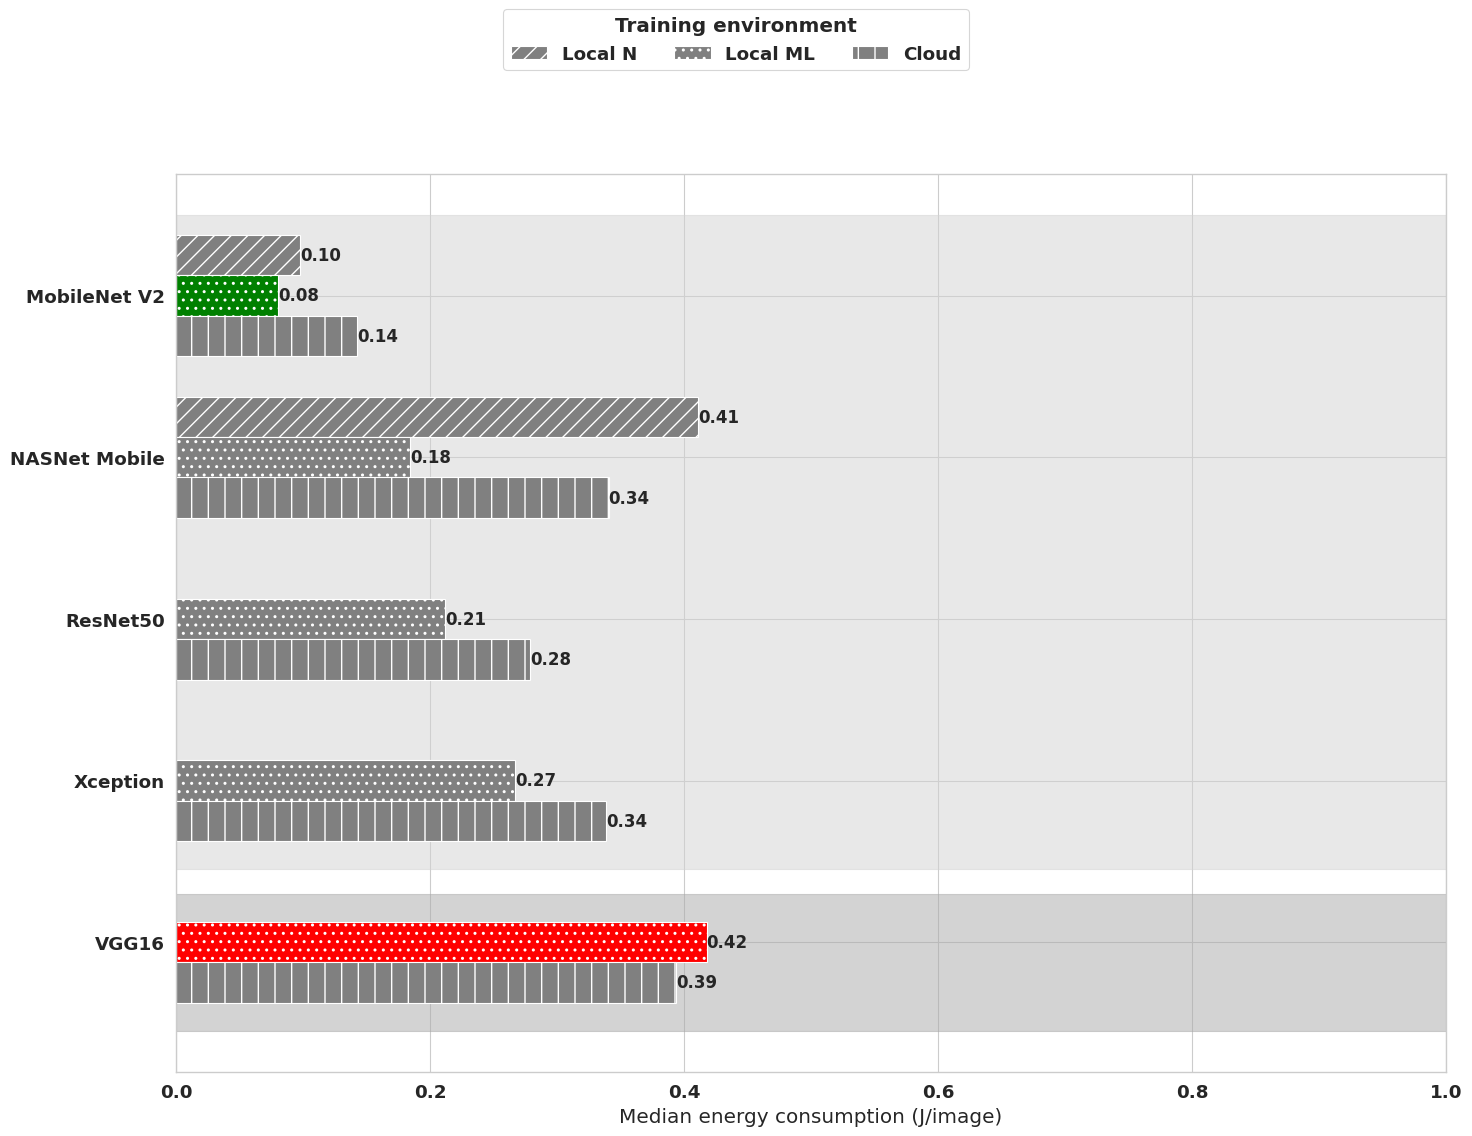
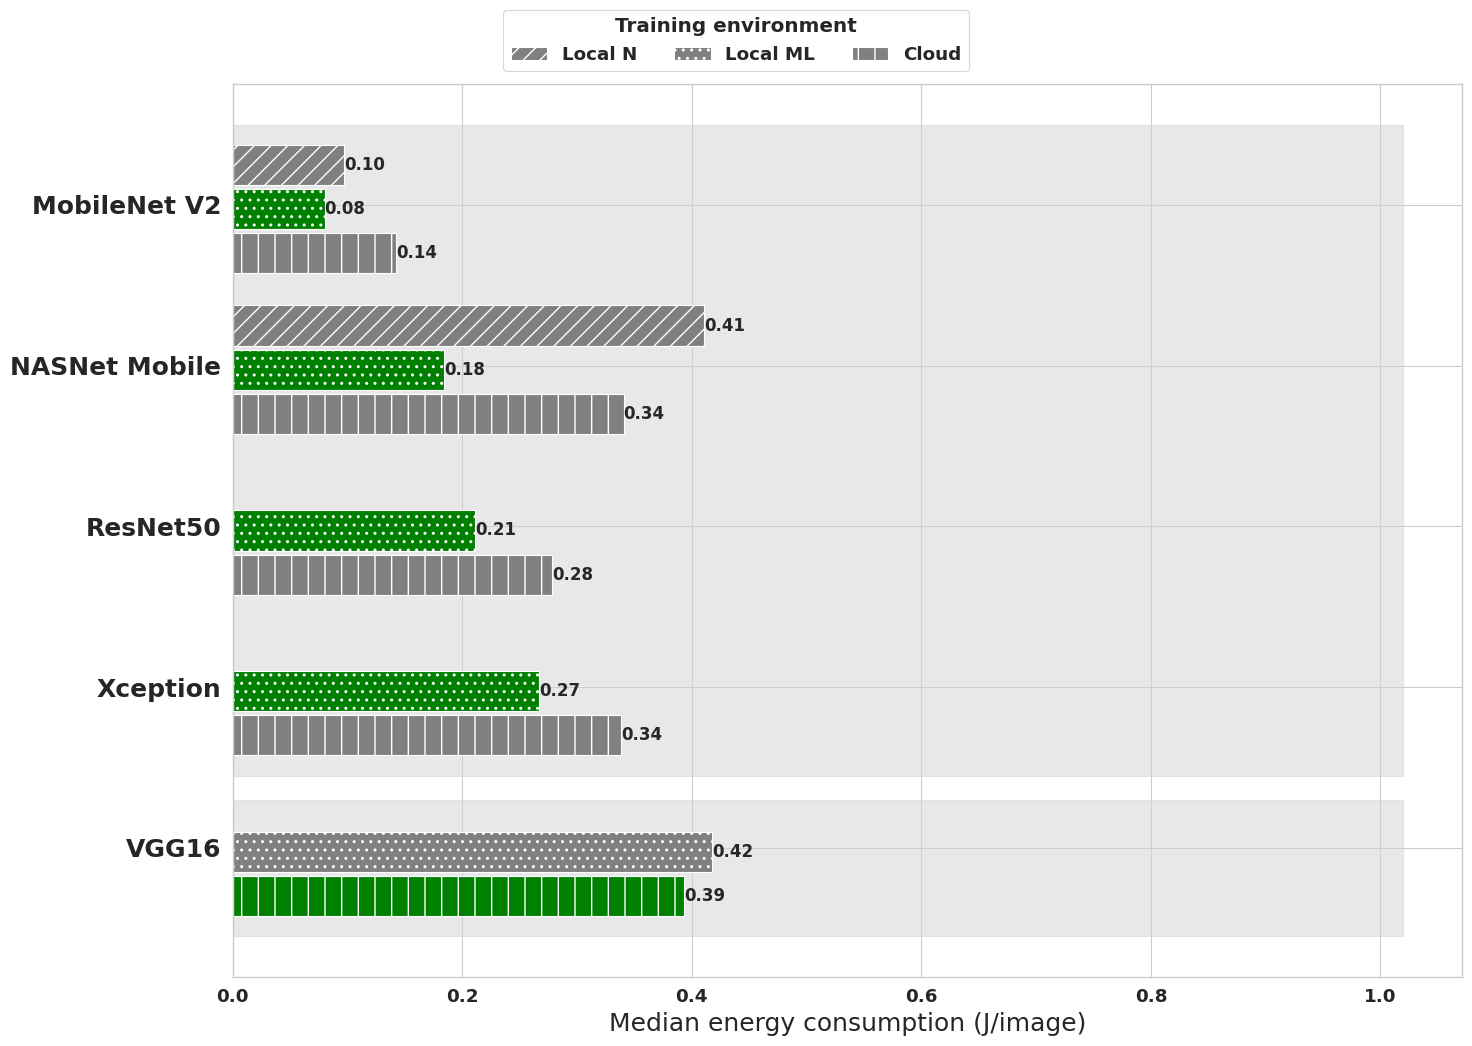
Include additional plot

diff --git a/src/plots.py b/src/plots.py
@@ -110,13 +110,14 @@ hatches = {"Local N": "//", "Local ML": "..", "Cloud": "|"}
 fig, ax = plt.subplots(layout="tight", figsize=(15, 10))
 
 ax.fill_between(
-    [0, 1], y[0] - bar_width, y[-2] + bar_width * 3.2, color="lightgray", alpha=0.5
+    [0, 1.02], y[0] - bar_width, y[-2] + bar_width * 3.2, color="lightgray", alpha=0.5
 )
+
 ax.fill_between(
-    [0, 1],
+    [0, 1.02],
     y[-2] + bar_width * 3.8,
     y[-1] + bar_width * 3.2,
-    color="darkgray",
+    color="lightgray",
     alpha=0.5,
 )
 
@@ -124,14 +125,12 @@ for training_environment in TRAIN_STRATEGIES:
     energy = energy_medians.query(
         f"`training environment` == '{training_environment}'"
     ).sort_values(by="architecture", key=lambda x: x.map(architecture_order))
-    offset = bar_width * multiplier
+    offset = (bar_width + 0.05) * multiplier
     if training_environment == "Local ML":
-        mobilenet_v2_energy = energy.query("`architecture` == 'MobileNet V2'")[
-            "energy"
-        ].values[0]
+        best_local_ml = energy.query("`architecture` != 'VGG16'")["energy"].values
         rects = ax.barh(
-            y=0 + offset,
-            width=mobilenet_v2_energy,
+            y=y[:-1] + offset,
+            width=best_local_ml,
             height=bar_width,
             hatch=hatches[training_environment],
             color="green",
@@ -143,20 +142,30 @@ for training_environment in TRAIN_STRATEGIES:
             width=vgg16_energy,
             height=bar_width,
             hatch=hatches[training_environment],
-            color="red",
+            color="gray",
+            label=training_environment,
         )
         ax.bar_label(rects, fmt="%.2f", label_type="edge", fontsize=12)
-        remaining_energy = energy.query(
-            "`architecture` not in ['MobileNet V2', 'VGG16']"
-        )["energy"].values
+    elif training_environment == "Cloud":
+        worst_cloud = energy.query("`architecture` != 'VGG16'")["energy"].values
         rects = ax.barh(
-            y=y[1 : len(energy) - 1] + offset,
-            width=remaining_energy,
+            y=y[:-1] + offset,
+            width=worst_cloud,
             height=bar_width,
-            label=training_environment,
             hatch=hatches[training_environment],
             color="gray",
+            label=training_environment,
         )
+        ax.bar_label(rects, fmt="%.2f", label_type="edge", fontsize=12)
+        vgg16_energy = energy.query("`architecture` == 'VGG16'")["energy"].values[0]
+        rects = ax.barh(
+            y=y[-1] + offset,
+            width=vgg16_energy,
+            height=bar_width,
+            hatch=hatches[training_environment],
+            color="green",
+        )
+        ax.bar_label(rects, fmt="%.2f", label_type="edge", fontsize=12)
     else:
         rects = ax.barh(
             y=y[: len(energy)] + offset,
@@ -166,25 +175,184 @@ for training_environment in TRAIN_STRATEGIES:
             hatch=hatches[training_environment],
             color="gray",
         )
-    ax.bar_label(rects, fmt="%.2f", label_type="edge", fontsize=12)
+        ax.bar_label(rects, fmt="%.2f", label_type="edge", fontsize=12)
     multiplier += 1
 
-
-ax.set_xlabel("Median energy consumption (J/image)")
-ax.set_xlim(0, 1)
-ax.set_yticks(y + bar_width, architectures)
+ax.set_xlabel("Median energy consumption (J/image)", fontsize=18)
+ax.set_yticks(y + bar_width, architectures, fontsize=18)
 ax.invert_yaxis()
 handles, labels = ax.get_legend_handles_labels()
 fig.legend(
     handles,
     labels,
     title="Training environment",
-    loc="upper center",
+    loc="lower center",
     ncols=3,
-    bbox_to_anchor=(0.5, 1.15),
+    bbox_to_anchor=(0.5, 0.98),
 )
 
 plt.savefig(
     os.path.join(SAVE_FIGS_DIR, f"energy-comparison-slide-verion.{FIGURES_FORMAT}"),
+    bbox_inches="tight",
+)
+
+fig, ax = plt.subplots(layout="tight", figsize=(15, 10))
+multiplier = 0
+
+ax.fill_between(
+    [0, 1.02],
+    y[0] - 0.8 * bar_width,
+    y[0] + bar_width * 2.8,
+    color="lightgray",
+    alpha=0.5,
+)
+
+f1_scores = analysis_df.groupby("architecture")["f1-score"].median()
+
+for training_environment in TRAIN_STRATEGIES:
+    energy = energy_medians.query(
+        f"`training environment` == '{training_environment}'"
+    ).sort_values(by="architecture", key=lambda x: x.map(architecture_order))
+    offset = (bar_width + 0.05) * multiplier
+    rects = ax.barh(
+        y=y[: len(energy)] + offset,
+        width=energy["energy"],
+        height=bar_width,
+        label=training_environment,
+        hatch=hatches[training_environment],
+        color="gray",
+    )
+    ax.bar_label(rects, fmt="%.2f", label_type="edge", fontsize=12)
+    multiplier += 1
+
+ax.text(
+    0.95,
+    y[0] - bar_width,
+    "F1-score",
+    va="center",
+    ha="center",
+    fontsize=18,
+)
+
+ax.vlines(
+    f1_scores, y - 0.5 * bar_width, y + 2.5 * bar_width, color="black", linewidth=3
+)
+for i, f1_score in enumerate(f1_scores):
+    ax.text(
+        f1_score + 0.01,
+        y[i] + bar_width,
+        f"{f1_score:.2f}",
+        va="center",
+        ha="left",
+        fontsize=12,
+    )
+
+ax.set_xlabel("Median energy consumption (J/image)", fontsize=18)
+ax.set_yticks(y + bar_width, architectures, fontsize=18)
+ax.invert_yaxis()
+handles, labels = ax.get_legend_handles_labels()
+fig.legend(
+    handles,
+    labels,
+    title="Training environment",
+    loc="lower center",
+    ncols=3,
+    bbox_to_anchor=(0.5, 0.98),
+)
+
+plt.savefig(
+    os.path.join(
+        SAVE_FIGS_DIR, f"energy-f1-score-comparison-slide-verion.{FIGURES_FORMAT}"
+    ),
+    bbox_inches="tight",
+)
+
+
+fig, ax = plt.subplots(layout="tight", figsize=(15, 10))
+multiplier = 0
+
+for training_environment in TRAIN_STRATEGIES:
+    energy = energy_medians.query(
+        f"`training environment` == '{training_environment}'"
+    ).sort_values(by="architecture", key=lambda x: x.map(architecture_order))
+    offset = (bar_width + 0.05) * multiplier
+    if training_environment == "Local ML":
+        best_local_ml = energy.query("`architecture` != 'VGG16'")["energy"].values
+        rects = ax.barh(
+            y=y[:-1] + offset,
+            width=best_local_ml,
+            height=bar_width,
+            hatch=hatches[training_environment],
+            color="gray",
+            label=training_environment,
+        )
+        ax.bar_label(rects, fmt="%.2f", label_type="edge", fontsize=12)
+        vgg16_energy = energy.query("`architecture` == 'VGG16'")["energy"].values[0]
+        rects = ax.barh(
+            y=y[-1] + offset,
+            width=vgg16_energy,
+            height=bar_width,
+            hatch=hatches[training_environment],
+            color="red",
+        )
+        ax.bar_label(rects, fmt="%.2f", label_type="edge", fontsize=12)
+    elif training_environment == "Cloud":
+        worst_cloud = energy.query("`architecture` != 'VGG16'")["energy"].values
+        rects = ax.barh(
+            y=y[:-1] + offset,
+            width=worst_cloud,
+            height=bar_width,
+            hatch=hatches[training_environment],
+            color="gray",
+            label=training_environment,
+        )
+        ax.bar_label(rects, fmt="%.2f", label_type="edge", fontsize=12)
+        vgg16_energy = energy.query("`architecture` == 'VGG16'")["energy"].values[0]
+        rects = ax.barh(
+            y=y[-1] + offset,
+            width=vgg16_energy,
+            height=bar_width,
+            hatch=hatches[training_environment],
+            color="red",
+        )
+        ax.bar_label(rects, fmt="%.2f", label_type="edge", fontsize=12)
+    else:
+        rects = ax.barh(
+            y=y[0] + offset,
+            width=energy.query("architecture == 'MobileNet V2'")["energy"],
+            height=bar_width,
+            label=training_environment,
+            hatch=hatches[training_environment],
+            color="gray",
+        )
+        ax.bar_label(rects, fmt="%.2f", label_type="edge", fontsize=12)
+        rects = ax.barh(
+            y=y[1] + offset,
+            width=energy.query("architecture == 'NASNet Mobile'")["energy"],
+            height=bar_width,
+            hatch=hatches[training_environment],
+            color="red",
+        )
+        ax.bar_label(rects, fmt="%.2f", label_type="edge", fontsize=12)
+    multiplier += 1
+
+
+ax.set_xlabel("Median energy consumption (J/image)", fontsize=18)
+ax.set_yticks(y + bar_width, architectures, fontsize=18)
+ax.invert_yaxis()
+handles, labels = ax.get_legend_handles_labels()
+fig.legend(
+    handles,
+    labels,
+    title="Training environment",
+    loc="lower center",
+    ncols=3,
+    bbox_to_anchor=(0.5, 0.98),
+)
+
+plt.savefig(
+    os.path.join(
+        SAVE_FIGS_DIR, f"energy-greedy-comparison-slide-verion.{FIGURES_FORMAT}"
+    ),
     bbox_inches="tight",
 )
